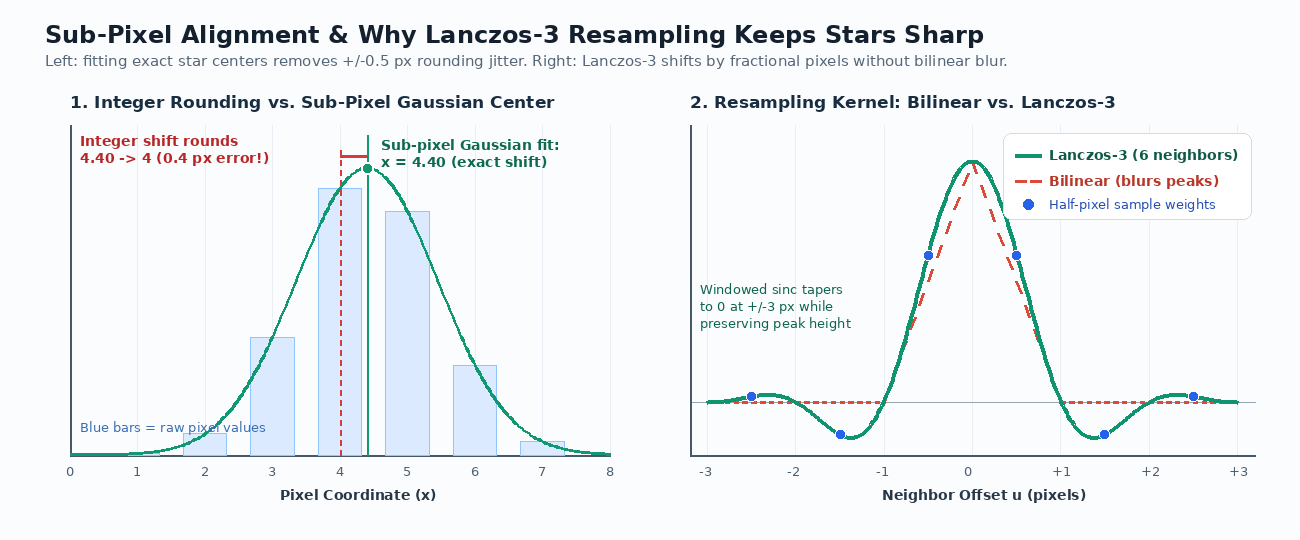
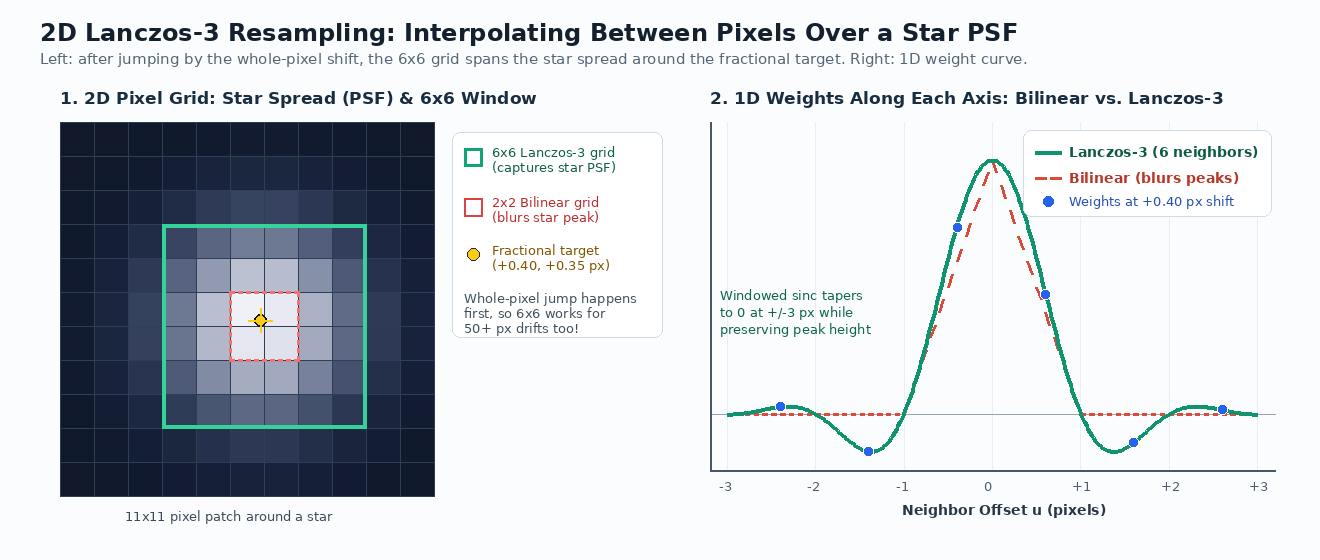
Upgrade Lanczos-3 diagram with 2D star-PSF pixel grid and 6x6 window

diff --git a/_posts/2026-11-24-hill-climbing-an-astro-stacker-with-carbon.md b/_posts/2026-11-24-hill-climbing-an-astro-stacker-with-carbon.md
@@ -70,8 +70,8 @@ in[2.4] = 0.02(10) - 0.14(12) + 0.72(80) + 0.46(100) - 0.08(15) + 0.02(11) = 101
 By contrast, simple **bilinear** interpolation only averages the two closest pixels (`0.60(80) + 0.40(100) = 88.0`), squashing the star peak from `101` down to `88`. Extending that `6`-neighbor weighted sum to a `6×6` patch in 2D works no matter how large the shift is (even 50+ pixels), because we jump by the whole-pixel shift first and only use the `6×6` grid for the fractional remainder between `0` and `1`. What actually matters is that the `6×6` window captures the local point spread function (PSF) cleanly, keeping stars crisp and giving our biggest single refinement jump (`+1.34`).
 
 <figure>
-  <img src="/images/2026-11-25-astro-stacker-lanczos3-explainer.png" alt="Two-panel diagram: left panel shows integer rounding introducing a 0.4 pixel shift error compared to a smooth sub-pixel Gaussian fit at x=4.40; right panel compares the 6-neighbor windowed-sinc Lanczos-3 resampling kernel against the blurry bilinear triangle kernel">
-  <figcaption>Left: fitting a smooth Gaussian recovers the exact sub-pixel star center (4.40 instead of rounding to 4). Right: Lanczos-3 uses a 6-neighbor windowed sinc kernel (tapering smoothly to zero at ±3 pixels), preserving star sharpness at fractional shifts where bilinear averaging blurs.</figcaption>
+  <img src="/images/2026-11-25-astro-stacker-lanczos3-explainer.png" alt="Two-panel diagram: left panel shows an 11x11 2D pixel grid of a star PSF with the 6x6 Lanczos-3 window capturing the star spread around a fractional target (+0.40, +0.35 px) compared to a tiny 2x2 bilinear box; right panel shows the 1D windowed-sinc Lanczos-3 weight curve at +0.40 px shift">
+  <figcaption>Left: 2D pixel grid around a star PSF. After jumping by the whole-pixel shift, the 6×6 Lanczos-3 grid comfortably spans the star's spread around the fractional target (yellow crosshair), unlike a 2×2 bilinear box. Right: the 6-neighbor windowed sinc weights at a +0.40 px shift.</figcaption>
 </figure>
 
 ### 2. Handling Rotation with Star-Triangle Matching (`Iter 4`)
